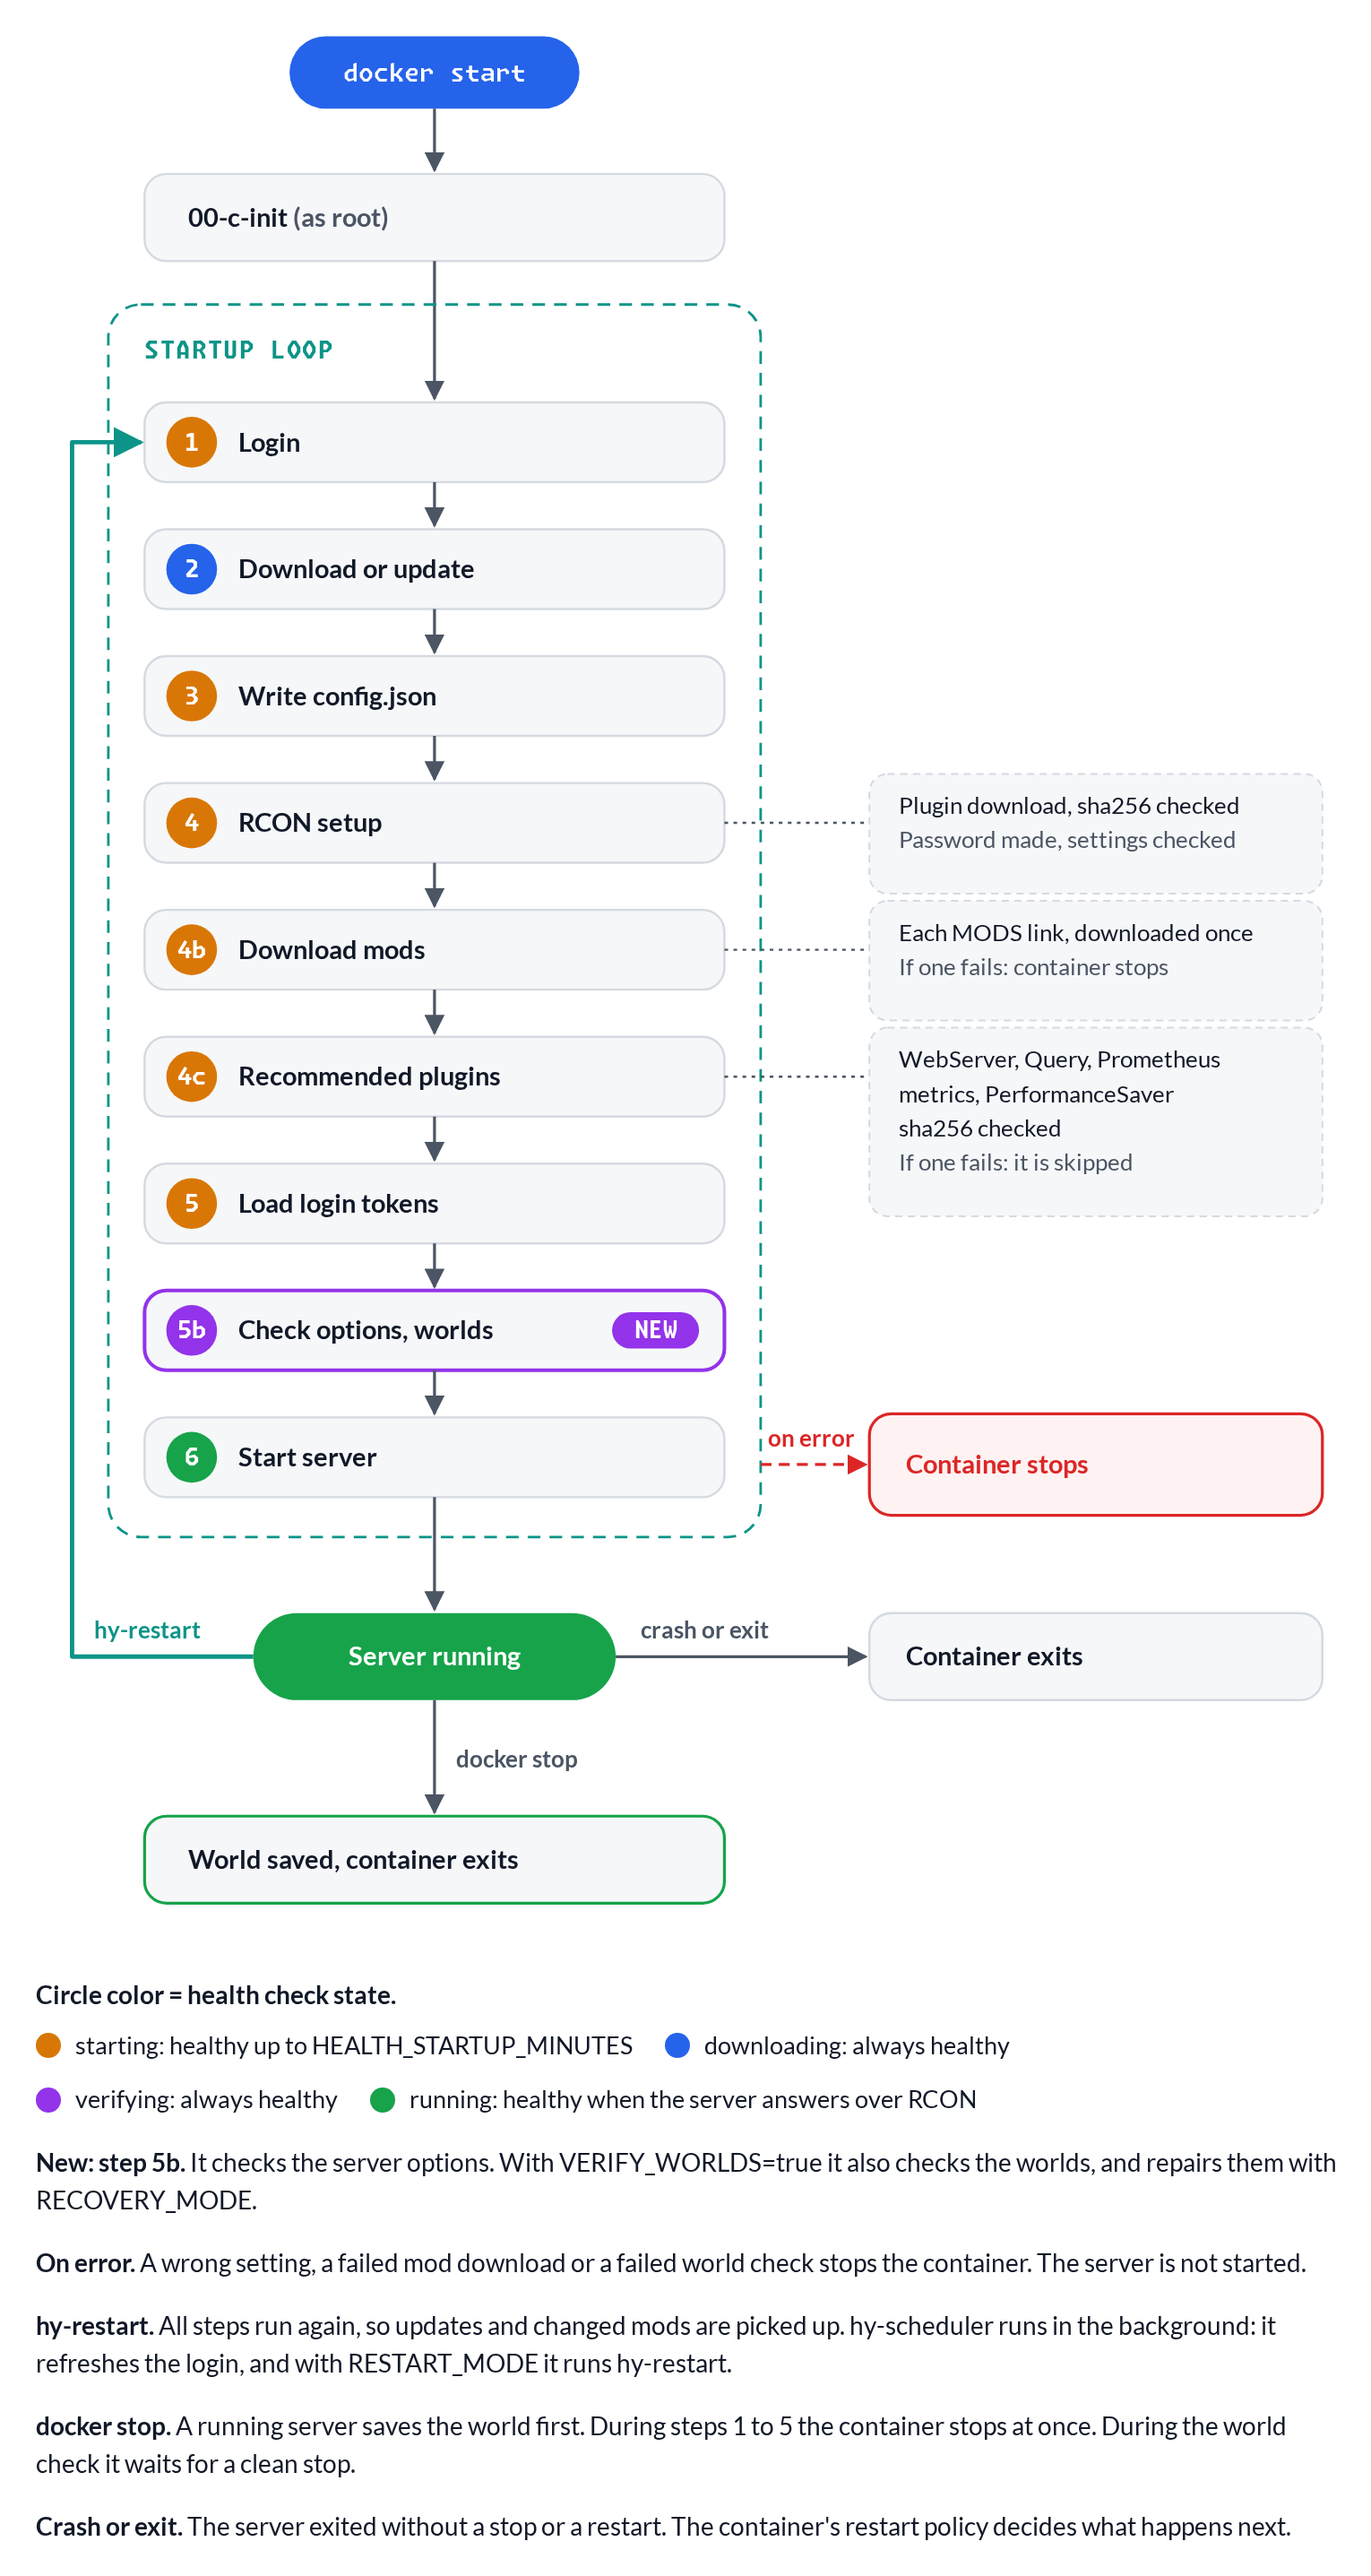
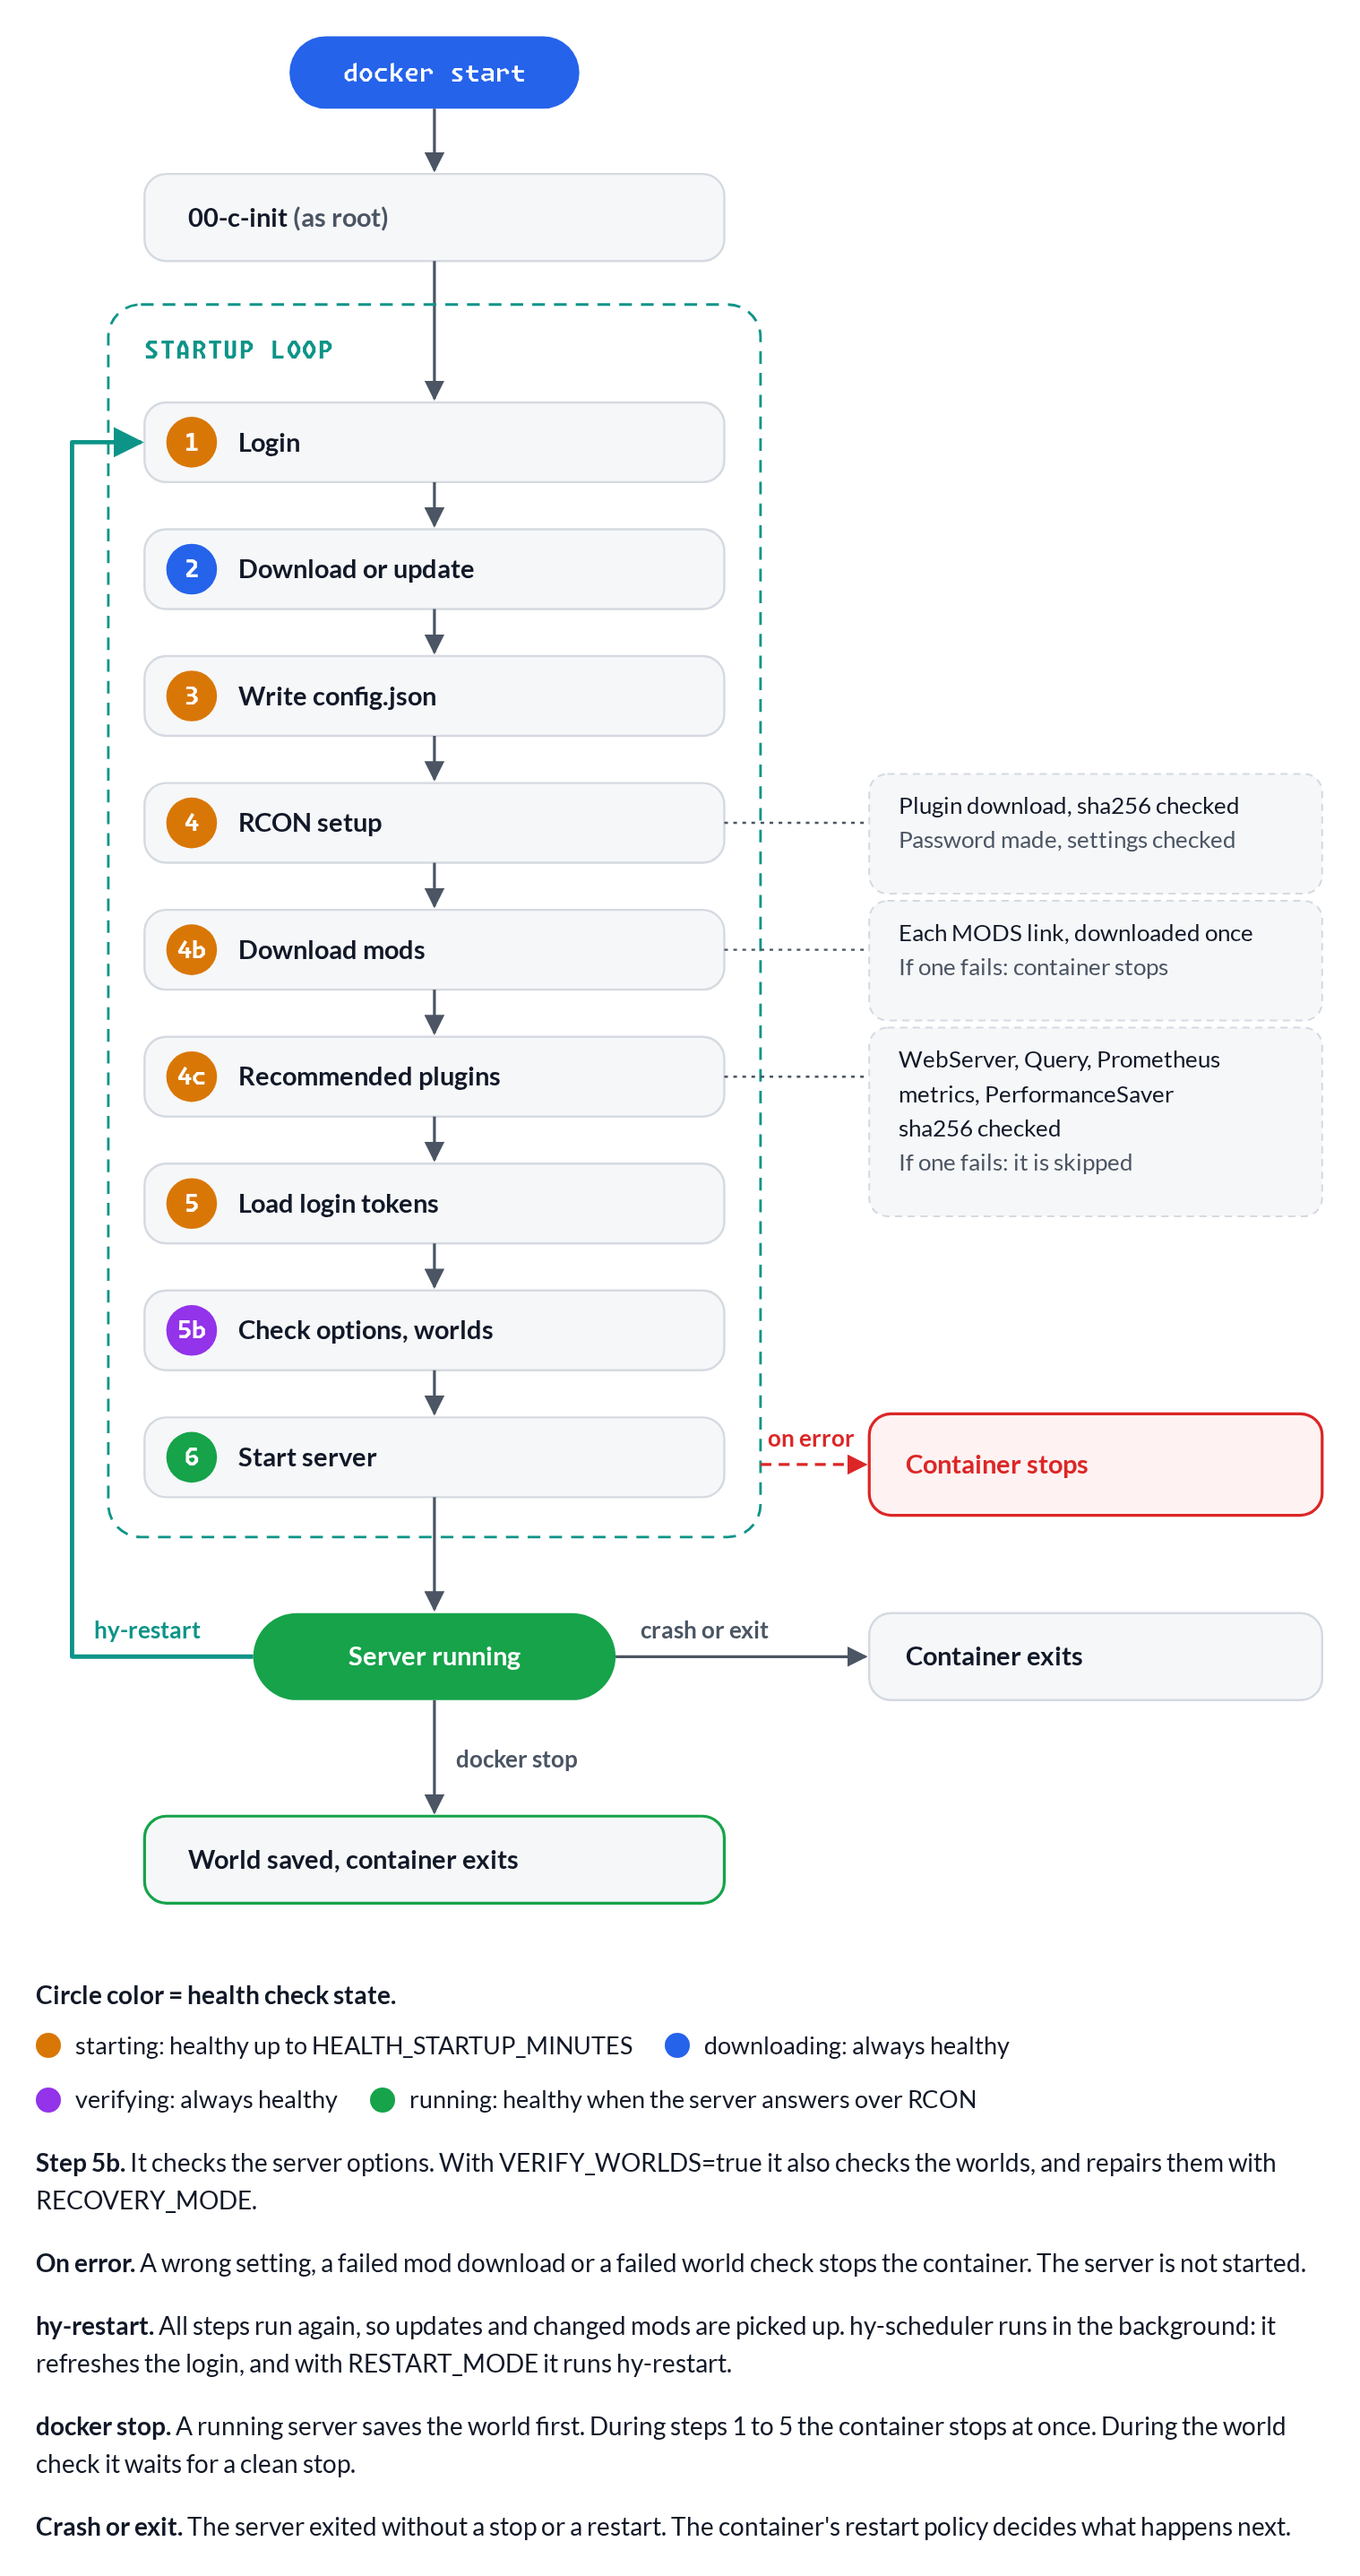
docs: Drop the NEW tag from the lifecycle flowchart

diff --git a/docs/lifecycle.html b/docs/lifecycle.html
@@ -139,7 +139,7 @@ svg { width: 100%; min-width: 680px; height: auto; display: block; font-family: 
       <span><i style="background:var(--c-run)"></i>running: healthy when the server answers over RCON</span>
     </div>
   </div>
-  <p><b>New: step 5b.</b> It checks the server options. With VERIFY_WORLDS=true it also checks the worlds, and repairs them with RECOVERY_MODE.</p>
+  <p><b>Step 5b.</b> It checks the server options. With VERIFY_WORLDS=true it also checks the worlds, and repairs them with RECOVERY_MODE.</p>
   <p><b>On error.</b> A wrong setting, a failed mod download or a failed world check stops the container. The server is not started.</p>
   <p><b>hy-restart.</b> All steps run again, so updates and changed mods are picked up. hy-scheduler runs in the background: it refreshes the login, and with RESTART_MODE it runs hy-restart.</p>
   <p><b>docker stop.</b> A running server saves the world first. During steps 1 to 5 the container stops at once. During the world check it waits for a clean stop.</p>
@@ -154,20 +154,15 @@ const S = 'var(--c-start)', D = 'var(--c-dl)', V = 'var(--c-verify)', R = 'var(-
 const steps = [
   ['1', 'Login', S], ['2', 'Download or update', D], ['3', 'Write config.json', S],
   ['4', 'RCON setup', S], ['4b', 'Download mods', S], ['4c', 'Recommended plugins', S],
-  ['5', 'Load login tokens', S], ['5b', 'Check options, worlds', V, true], ['6', 'Start server', R],
+  ['5', 'Load login tokens', S], ['5b', 'Check options, worlds', V], ['6', 'Start server', R],
 ];
 const g = document.getElementById('steps');
-steps.forEach(([n, title, color, isNew], i) => {
+steps.forEach(([n, title, color], i) => {
   const y = 222 + i * 70;
-  g.append(el('rect', { x: 60, y, width: 320, height: 44, rx: 12, class: 'node',
-    style: isNew ? 'stroke:var(--c-verify);stroke-width:2' : '' }));
+  g.append(el('rect', { x: 60, y, width: 320, height: 44, rx: 12, class: 'node' }));
   g.append(el('circle', { cx: 86, cy: y + 22, r: 14, fill: color }));
   g.append(el('text', { x: 86, y: y + 26.5, 'text-anchor': 'middle', class: 'num' }, n));
   g.append(el('text', { x: 112, y: y + 27, class: 'title' }, title));
-  if (isNew) {
-    g.append(el('rect', { x: 318, y: y + 12, width: 48, height: 20, rx: 10, fill: 'var(--c-verify)' }));
-    g.append(el('text', { x: 342, y: y + 26.5, 'text-anchor': 'middle', class: 'num' }, 'NEW'));
-  }
   if (i < steps.length - 1) g.append(el('path', { class: 'edge', d: `M220,${y + 44} V${y + 68}`, 'marker-end': 'url(#a)' }));
 });
 // Notes beside steps 4, 4b, 4c: [step index, lines]; the last line is muted
